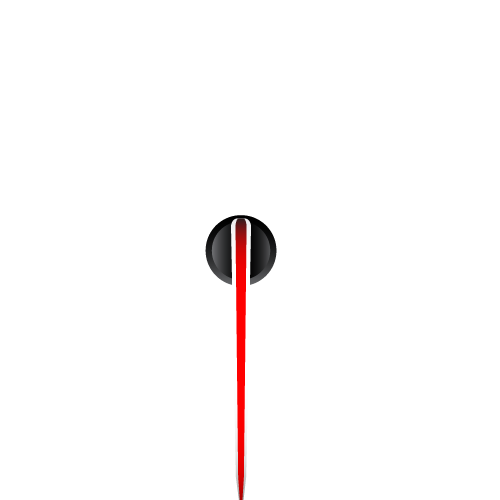
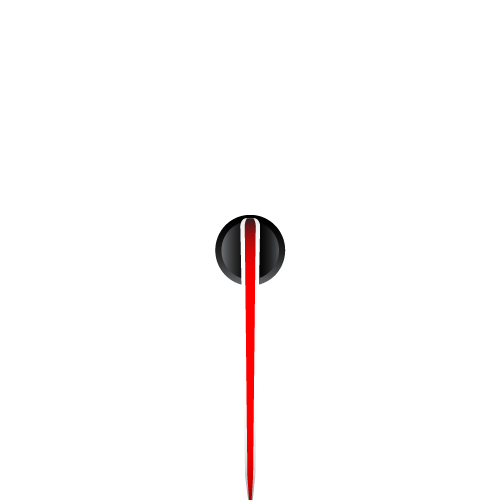
gasPedal and breakPedal upgrade

Changed region(s): [[0.39, 0.42, 0.57, 1.0]]

diff --git a/main.py b/main.py
@@ -1,11 +1,15 @@
 import pygame
 import time
 import asyncio
+import pyglet
 from sys import exit
 
 
 # ======================================================================================================================
 # Additional functions
+from tkinter import *
+
+
 def turnOnAllIcons():
     return (True, True, True, True, True, True, True, True, True)
 def turnOffAllIcons():
@@ -16,6 +20,8 @@ def blitRotate(surf, image, pos, angle=0):
 
     # offset from pivot to center
     image_rect = image.get_rect(topleft=(pos[0] - w/2, pos[1] - h/2))
+    #fix image_rect center of image
+
     offset_center_to_pivot = pygame.math.Vector2(pos) - image_rect.center
 
     # roatated offset from pivot to center
@@ -30,7 +36,15 @@ def blitRotate(surf, image, pos, angle=0):
 
     # rotate and blit the image
     surf.blit(rotated_image, rotated_image_rect)
-
+    pygame.draw.rect(surf, (255, 0, 0), (rotated_image_rect.topleft, rotated_image.get_size()), 2)
+def rot_center(image, angle):
+    """rotate an image while keeping its center and size"""
+    orig_rect = image.get_rect()
+    rot_image = pygame.transform.rotate(image, angle)
+    rot_rect = orig_rect.copy()
+    rot_rect.center = rot_image.get_rect().center
+    rot_image = rot_image.subsurface(rot_rect).copy()
+    return rot_image
 
 def dispalyPosition(positionInPrecent=(0, 0)) -> tuple:
     return screen.get_width() * positionInPrecent[0] / 100, screen.get_height() * positionInPrecent[1] / 100
@@ -78,10 +92,10 @@ startStopButtonRect = startStopButton.get_rect(topleft = (1550, 50))
 clocksBackground = pygame.image.load('source/PNG/clocks.png')
 clocksBackground = pygame.transform.scale(clocksBackground, (1920, 1080))
 pointer_rpm = pygame.image.load('source/PNG/arrow.png')
-pointer_rpm = pygame.transform.scale(pointer_rpm, (300, 300))
+pointer_rpm = pygame.transform.scale(pointer_rpm, (500, 500))
 
 pointer_speed = pygame.image.load('source/PNG/arrow.png')
-pointer_speed = pygame.transform.scale(pointer_speed, (500, 500))
+pointer_speed = pygame.transform.scale(pointer_speed, (300, 300))
 
 gasPedal = pygame.image.load('source/PNG/pedals.png')
 gasPedal = pygame.transform.scale(gasPedal, (600, 600))
@@ -111,6 +125,9 @@ iconsState = (False, False, False, False, False, False, False, False, False)
 # iconsState = turnOnAllIcons()
 # ======================================================================================================================
 
+# make a second window using pyglet library
+
+
 while True:
     for event in pygame.event.get():
         if event.type == pygame.QUIT:
@@ -124,8 +141,8 @@ while True:
 
     # Wskazowka i zegar
     screen.blit(clocksBackground, (0,0))
-    blitRotate(screen, pointer_rpm, (576,561), angle_speed)
-    blitRotate(screen, pointer_speed, (997, 558), angle_rpm)
+    blitRotate(screen, pointer_speed, (581,565), angle_speed)
+    blitRotate(screen, pointer_rpm, (997, 558), angle_rpm)
 
     # Ikonki
     if iconsState[0]:
